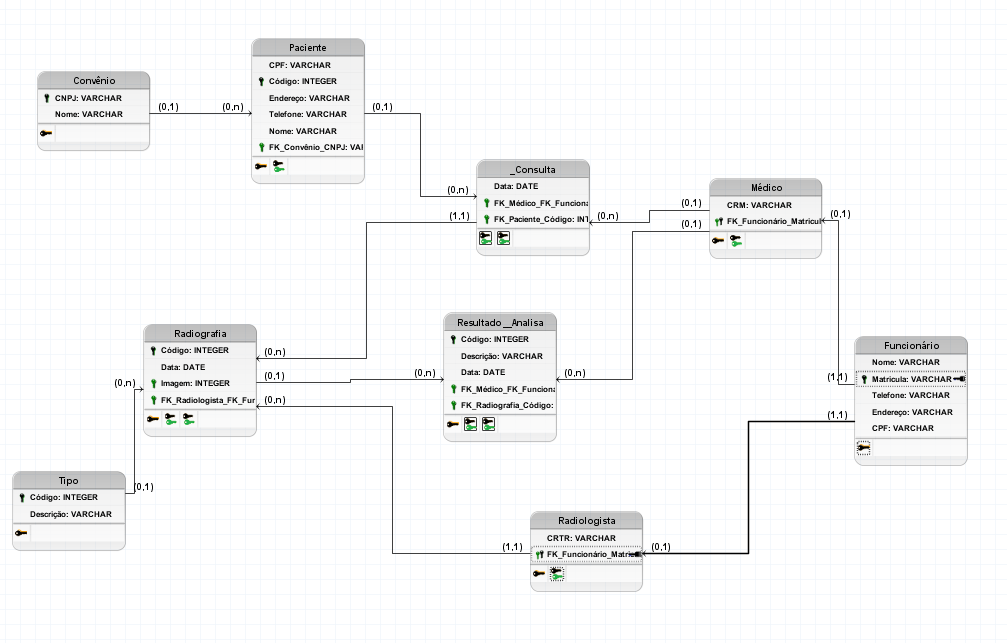
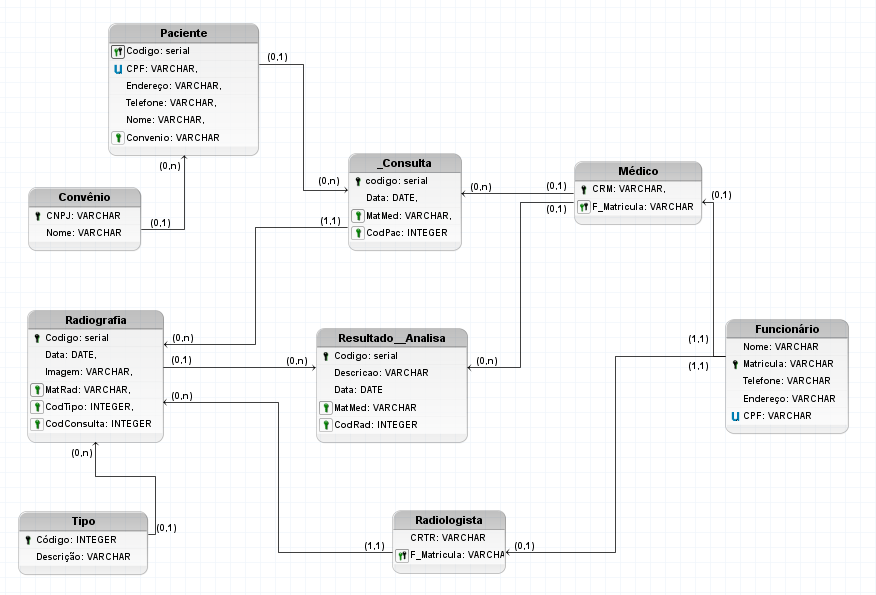
Adicionando check list, correções do modelo lógico, finalização do script de consulta, correções no scrip de criação, correções no script de inserção.

diff --git a/README.md b/README.md
@@ -3,12 +3,32 @@
 Projeto da disciplina de Banco de Dados 2 do curso Sistemas para Internet no IFPB.
 
 ### Modelo Conceitual
-![Modelo Conceitual](https://github.com/willabdon/ProjetoClinicaBD2/blob/master/imagens/Conceitual.png?raw=true)]
+![Modelo Conceitual](https://github.com/willabdon/ProjetoClinicaBD2/blob/master/imagens/Conceitual.png?raw=true)
 
 ### Modelo Lógico
-![Modelo Conceitual](https://github.com/willabdon/ProjetoClinicaBD2/blob/master/imagens/Logico.png?raw=true)]
+![Modelo Conceitual](https://github.com/willabdon/ProjetoClinicaBD2/blob/master/imagens/Logico.png?raw=true)
 
 #### Alunos
 - César Cesconetto
 - Paulo Henrique
 - Willian Abdon
+
+### Requisitos
+
+- [x] Descrição da Aplicação e Regras de Negócio.
+- [x] Modelo Conceitual e Lógico.
+- [ ] Criação de 2 usuários (1 Owner e 1 com acesso restrito).
+- [ ] Criação do BD e associação a Owner.
+- [ ] Tabelas e Constraints (Campos Nulos e não nulos, check de validação).
+- [x] 10 Consultas variadas.
+- [ ] 1 Visão que permita inserção.
+- [ ] 2 visões robustas.
+- [ ] Provê acesso a uma das visões ao usuário 2.
+- [ ] 3 índices.
+- [x] 1 Função com uso de SUM, MAX, MIN, AVG ou COUNT.
+- [ ] 3 Funções. (Ao menos duas com tratamento de exceções).
+- [ ] Provê acesso de execução de uma das funções ao usuário 2.
+- [ ] 3 Triggers.
+- [ ] Identificar 2 consultas que possam ser melhoradas.
+
+
